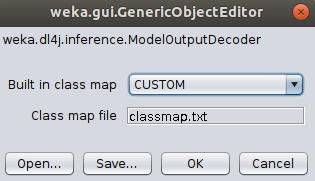
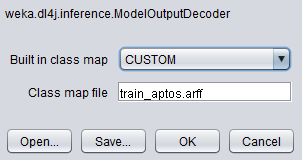
:lipstick: Add images to inference tutorial

diff --git a/4-inference.md b/4-inference.md
@@ -8,9 +8,7 @@ at to make its prediction*.
 
 This section walks through a few common usage scenarios with the panel, including simple inference and more advanced **saliency map** generation.
 
-<!-- TODO change to asset pack -->
-
-Where the examples below use an image, this can be found at:
+Where the examples below use an image, this can be found in the `test-images/` asset pack folder or the test images folder included with **WekaDeeplearning4j**:
 
     $WEKA_HOME/packages/wekaDeeplearning4j/src/test/resources/images/ 
 
@@ -111,13 +109,19 @@ ben_stiller.jpg - Dl4jVGG (VGG16)
 
 ## Inference with Custom Trained Model
 
+![APTOS Example Image](./images/datasets/aptos/0a38b552372d.png)
+![APTOS Example Image](./images/datasets/aptos/0a902c80d5da.png)
+![APTOS Example Image](./images/datasets/aptos/0e0003ddd8df.png)
+
 Although a very diverse dataset (IMAGENET) was used to train many of the built-in zoo models (meaning they can perform accurate prediction in a wide range of domains), you may instead have a custom-trained `Dl4jMlpClassifier` which you'd like to experiment with; the process is largely the same as above, with a few minor changes.
 
 To save a model you've trained in WEKA, right click on the result and click `Save model`.
 
 ![Saving a Dl4jMlpClassifier](./images/4-inference/Explorer_saveModel.png)
 
-Provided in the asset pack is a ResNet50 model trained on the APTOS dataset.
+Provided in the asset pack is a model trained on the [APTOS](https://www.kaggle.com/c/aptos2019-blindness-detection/) dataset. This contains a large set of retina images taken using fundus photography under a variety of imaging conditions, with the task of classifying an image severity between 0-4. Check out the [dataset page](https://www.kaggle.com/c/aptos2019-blindness-detection/) for more info.
+
+The data and model for this section are under the `aptos-blindness/` asset pack folder. A subset of the images are provided but feel free to download the full dataset if you'd like to train your own model.
 
 ### GUI
 
@@ -129,8 +133,6 @@ On the `Dl4j Inference` panel, open the `Dl4jCNNExplorer` settings:
     - Set the input `channels`, `width`, and `height` with the values used to train the model. These values will be identical to those set on the `ImageInstanceIterator` (in this case `3`, `224`, `224`, respectively).
 
         ![Dl4jCNNExplorer Settings](./images/4-inference/Dl4jCNNExplorer_customModel.png)
-
-        <!-- TODO change to actual model file -->
 
 We now need to configure the `ModelOutputDecoder` to correctly parse the model predictions and map the class IDs with the appropriate class name. Class maps can be in two forms:
 1. **`.txt`** - Each class is specified on a new line (example below)
@@ -154,7 +156,7 @@ Black-grass
 
 Configure the `ModelOutputDecoder`:
 - Set `Built in class map` to `CUSTOM`
-- Select the `aptos_train.arff` as the `Class map file` 
+- Select `train_aptos.arff` as the `Class map file` 
 
     ![ModelOutputDecoder Settings](./images/4-inference/ModelOutputDecoder_custom.png)
 
@@ -164,12 +166,13 @@ Just like the previous examples, the custom model can perform inference on any i
 
 ### Command Line
 
-<!-- TODO set to actual paths -->
+This assumes you're running the terminal from within the `aptos-blindness/` asset folder.
+
 ```bash
 $ java weka.Run .Dl4jCNNExplorer \
-    -i path/to/image.jpg \
-    -custom-model ".CustomModelSetup -channels 3 -height 56 -width 56 -model-file path/to/customModel.model" \
-    -decoder ".ModelOutputDecoder -builtIn CUSTOM -classMapFile path/to/training.arff" \
+    -i train_images/0083ee8054ee.png \
+    -custom-model ".CustomModelSetup -channels 3 -height 224 -width 224 -model-file 224x224x3_aptos.model" \
+    -decoder ".ModelOutputDecoder -builtIn CUSTOM -classMapFile train_aptos.arff" \
     -useCustomModel
 ```
 
@@ -181,7 +184,7 @@ WekaDeeplearning4j currently contains the **ScoreCAM** saliency map generation t
 
 Because the model must perform inference on hundreds of images, the process can take much longer (2-3 minutes) than simple prediction. This can be sped up with the use of a modern GPU ([setup instructions](https://deeplearning.cms.waikato.ac.nz/install/#add-gpu-support)).
 
-For the purpose of this tutorial, we'll use **ResNet 101** to perform prediction and generate the saliency map.
+For the purpose of this tutorial, we'll use **ResNet 101** to perform prediction and generate the saliency map. Saliency map generation for custom-trained models is supported but currently in beta and not guaranteed to provide meaningful results.
 
 ### GUI
 
@@ -265,4 +268,3 @@ The `Dl4j Inference` panel is made for playing around, so get your hands dirty. 
 - Try downloading some images of household objects of the internet and pass them in to one of the pretrained models - does it struggle on some particularly complex cases?
 - Find a picture of your favourite celebrity, set up the `Dl4jCNNExplorer` for [celebrity prediction](#simple-inference-with-custom-parameters), and see if the model can correctly predict who they are. You may need to check the [VGGFACE](https://deeplearning.cms.waikato.ac.nz/user-guide/class-maps/VGGFACE) class map to ensure your chosen celebrity is in the dataset.
 - Make sure to try out different models in the Model Zoo. Some are much larger than others, but can provide more accurate predictions.
-- If you've trained a `Dl4jMlpClassifier` model in WEKA, try load it in and perform inference on images from the dataset it was trained on - how accurate is it at doing so?
